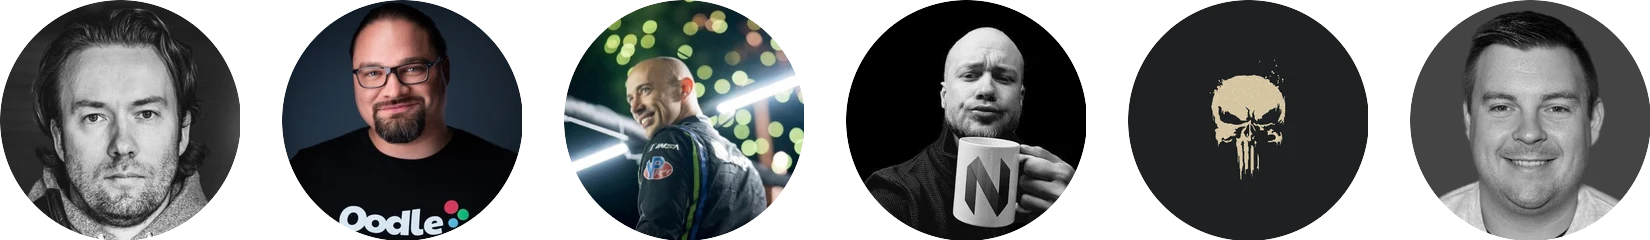
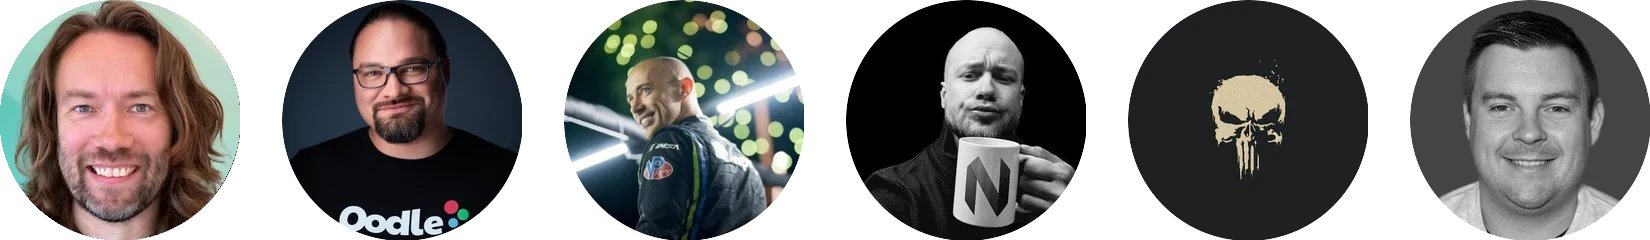
Use the current dhh.dk headshot and byline
Swaps in headshot-2026-square.jpg for all three places the old photo
appeared: the Core and Security cards on /teams, the Founding Patrons grid,
and the six-avatar strip on the Core Team post, where it was baked into the
image and had to be composited back over the first circle.

Bylines point at dhh.dk instead of x.com/dhh across all ten posts. The
plugin competition's link to a specific tweet stays on X — that one is a
reference, not an author link.

Changed region(s): [[0.0, 0.0, 0.1545, 1.0]]

diff --git a/news/index.html b/news/index.html
@@ -67,7 +67,7 @@
         <article class="news-card">
           <header>
             <p class="news-meta">
-              <span class="news-byline"><a href="https://x.com/dhh" rel="author noopener noreferrer" target="_blank">DHH</a></span> on <time class="news-date" datetime="2026-08-28">August 28, 2026</time>
+              <span class="news-byline"><a href="https://dhh.dk" rel="author noopener noreferrer" target="_blank">DHH</a></span> on <time class="news-date" datetime="2026-08-28">August 28, 2026</time>
             </p>
             <h2 class="news-card__title">Introducing Omarchy AIR</h2>
           </header>
@@ -83,7 +83,7 @@
         <article class="news-card">
           <header>
             <p class="news-meta">
-              <span class="news-byline"><a href="https://x.com/dhh" rel="author noopener noreferrer" target="_blank">DHH</a></span> on <time class="news-date" datetime="2026-08-27">August 27, 2026</time>
+              <span class="news-byline"><a href="https://dhh.dk" rel="author noopener noreferrer" target="_blank">DHH</a></span> on <time class="news-date" datetime="2026-08-27">August 27, 2026</time>
             </p>
             <h2 class="news-card__title">Introducing Omarchy Rangers</h2>
           </header>
@@ -99,7 +99,7 @@
         <article class="news-card">
           <header>
             <p class="news-meta">
-              <span class="news-byline"><a href="https://x.com/dhh" rel="author noopener noreferrer" target="_blank">DHH</a></span> on <time class="news-date" datetime="2026-08-25">August 25, 2026</time>
+              <span class="news-byline"><a href="https://dhh.dk" rel="author noopener noreferrer" target="_blank">DHH</a></span> on <time class="news-date" datetime="2026-08-25">August 25, 2026</time>
             </p>
             <h2 class="news-card__title">Omacom Foundation to be premier mise sponsor</h2>
           </header>
@@ -115,7 +115,7 @@
         <article class="news-card">
           <header>
             <p class="news-meta">
-              <span class="news-byline"><a href="https://x.com/dhh" rel="author noopener noreferrer" target="_blank">DHH</a></span> on <time class="news-date" datetime="2026-08-24">August 24, 2026</time>
+              <span class="news-byline"><a href="https://dhh.dk" rel="author noopener noreferrer" target="_blank">DHH</a></span> on <time class="news-date" datetime="2026-08-24">August 24, 2026</time>
             </p>
             <h2 class="news-card__title">Omarchy meetups around the world</h2>
           </header>
@@ -131,7 +131,7 @@
         <article class="news-card">
           <header>
             <p class="news-meta">
-              <span class="news-byline"><a href="https://x.com/dhh" rel="author noopener noreferrer" target="_blank">DHH</a></span> on <time class="news-date" datetime="2026-08-24">August 24, 2026</time>
+              <span class="news-byline"><a href="https://dhh.dk" rel="author noopener noreferrer" target="_blank">DHH</a></span> on <time class="news-date" datetime="2026-08-24">August 24, 2026</time>
             </p>
             <h2 class="news-card__title">Omacom Foundation to be premier Quickshell sponsor</h2>
           </header>
@@ -147,7 +147,7 @@
         <article class="news-card">
           <header>
             <p class="news-meta">
-              <span class="news-byline"><a href="https://x.com/dhh" rel="author noopener noreferrer" target="_blank">DHH</a></span> on <time class="news-date" datetime="2026-08-24">August 24, 2026</time>
+              <span class="news-byline"><a href="https://dhh.dk" rel="author noopener noreferrer" target="_blank">DHH</a></span> on <time class="news-date" datetime="2026-08-24">August 24, 2026</time>
             </p>
             <h2 class="news-card__title">Omacom Foundation funding hits $10m</h2>
           </header>
@@ -163,7 +163,7 @@
         <article class="news-card">
           <header>
             <p class="news-meta">
-              <span class="news-byline"><a href="https://x.com/dhh" rel="author noopener noreferrer" target="_blank">DHH</a></span> on <time class="news-date" datetime="2026-08-21">August 21, 2026</time>
+              <span class="news-byline"><a href="https://dhh.dk" rel="author noopener noreferrer" target="_blank">DHH</a></span> on <time class="news-date" datetime="2026-08-21">August 21, 2026</time>
             </p>
             <h2 class="news-card__title">Omacom Foundation to be exclusive Hyprland sponsor</h2>
           </header>
@@ -179,7 +179,7 @@
         <article class="news-card">
           <header>
             <p class="news-meta">
-              <span class="news-byline"><a href="https://x.com/dhh" rel="author noopener noreferrer" target="_blank">DHH</a></span> on <time class="news-date" datetime="2026-08-21">August 21, 2026</time>
+              <span class="news-byline"><a href="https://dhh.dk" rel="author noopener noreferrer" target="_blank">DHH</a></span> on <time class="news-date" datetime="2026-08-21">August 21, 2026</time>
             </p>
             <h2 class="news-card__title">Omacom Foundation launches with $8 million</h2>
           </header>
@@ -195,7 +195,7 @@
         <article class="news-card">
           <header>
             <p class="news-meta">
-              <span class="news-byline"><a href="https://x.com/dhh" rel="author noopener noreferrer" target="_blank">DHH</a></span> on <time class="news-date" datetime="2026-08-19">August 19, 2026</time>
+              <span class="news-byline"><a href="https://dhh.dk" rel="author noopener noreferrer" target="_blank">DHH</a></span> on <time class="news-date" datetime="2026-08-19">August 19, 2026</time>
             </p>
             <h2 class="news-card__title">The Omarchy Core Team</h2>
           </header>
@@ -211,7 +211,7 @@
         <article class="news-card">
           <header>
             <p class="news-meta">
-              <span class="news-byline"><a href="https://x.com/dhh" rel="author noopener noreferrer" target="_blank">DHH</a></span> on <time class="news-date" datetime="2026-08-19">August 19, 2026</time>
+              <span class="news-byline"><a href="https://dhh.dk" rel="author noopener noreferrer" target="_blank">DHH</a></span> on <time class="news-date" datetime="2026-08-19">August 19, 2026</time>
             </p>
             <h2 class="news-card__title">The first plugin competition</h2>
           </header>

diff --git a/news/2026/08/omacom-foundation-to-be-premier-quickshell-sponsor/index.html b/news/2026/08/omacom-foundation-to-be-premier-quickshell-sponsor/index.html
@@ -30,7 +30,7 @@
     <meta name="twitter:image" content="https://omarchy.org/assets/images/social.png">
     <meta name="twitter:image:alt" content="Omarchy logo">
 
-    <script type="application/ld+json">{"@context":"https://schema.org","@type":"BlogPosting","headline":"Omacom Foundation to be premier Quickshell sponsor","description":"More money in , more money out! Our second major sponsorship from the Omacom Foundation is going to outfoxxed for his superb work on Quickshell . It’s only been part of the public release for a week, but it’s already crystal clear that it…","datePublished":"2026-08-24","author":{"@type":"Person","name":"DHH","url":"https://x.com/dhh"},"publisher":{"@type":"Organization","name":"Omarchy","logo":{"@type":"ImageObject","url":"https://omarchy.org/assets/images/favicon.png"}},"image":"https://omarchy.org/assets/images/favicon.png","mainEntityOfPage":"https://omarchy.org/news/2026/08/omacom-foundation-to-be-premier-quickshell-sponsor"}</script>
+    <script type="application/ld+json">{"@context":"https://schema.org","@type":"BlogPosting","headline":"Omacom Foundation to be premier Quickshell sponsor","description":"More money in , more money out! Our second major sponsorship from the Omacom Foundation is going to outfoxxed for his superb work on Quickshell . It’s only been part of the public release for a week, but it’s already crystal clear that it…","datePublished":"2026-08-24","author":{"@type":"Person","name":"DHH","url":"https://dhh.dk"},"publisher":{"@type":"Organization","name":"Omarchy","logo":{"@type":"ImageObject","url":"https://omarchy.org/assets/images/favicon.png"}},"image":"https://omarchy.org/assets/images/favicon.png","mainEntityOfPage":"https://omarchy.org/news/2026/08/omacom-foundation-to-be-premier-quickshell-sponsor"}</script>
 
     <link rel="stylesheet" href="/assets/css/reset.css">
     <link rel="stylesheet" href="/assets/css/root.css">
@@ -65,7 +65,7 @@
       <article class="news-post">
         <header class="news-post__header">
           <p class="news-meta">
-            <span class="news-byline">By <a href="https://x.com/dhh" rel="author noopener noreferrer" target="_blank">DHH</a></span> on <time class="news-date" datetime="2026-08-24">August 24, 2026</time>
+            <span class="news-byline">By <a href="https://dhh.dk" rel="author noopener noreferrer" target="_blank">DHH</a></span> on <time class="news-date" datetime="2026-08-24">August 24, 2026</time>
           </p>
           <h1 class="news-post__title">Omacom Foundation to be premier Quickshell sponsor</h1>
         </header>

diff --git a/news/2026/08/omacom-foundation-to-be-exclusive-hyprland-sponsor/index.html b/news/2026/08/omacom-foundation-to-be-exclusive-hyprland-sponsor/index.html
@@ -30,7 +30,7 @@
     <meta name="twitter:image" content="https://omarchy.org/assets/images/social.png">
     <meta name="twitter:image:alt" content="Omarchy logo">
 
-    <script type="application/ld+json">{"@context":"https://schema.org","@type":"BlogPosting","headline":"Omacom Foundation to be exclusive Hyprland sponsor","description":"What better way to start spending some of the treasure we just raised for the Omacom Foundation than on the most cracked Linux kid in Poland: Vaxry ! As the creator of Hyprland , he’s responsible for one of the three core technologies in…","datePublished":"2026-08-21","author":{"@type":"Person","name":"DHH","url":"https://x.com/dhh"},"publisher":{"@type":"Organization","name":"Omarchy","logo":{"@type":"ImageObject","url":"https://omarchy.org/assets/images/favicon.png"}},"image":"https://omarchy.org/assets/images/favicon.png","mainEntityOfPage":"https://omarchy.org/news/2026/08/omacom-foundation-to-be-exclusive-hyprland-sponsor"}</script>
+    <script type="application/ld+json">{"@context":"https://schema.org","@type":"BlogPosting","headline":"Omacom Foundation to be exclusive Hyprland sponsor","description":"What better way to start spending some of the treasure we just raised for the Omacom Foundation than on the most cracked Linux kid in Poland: Vaxry ! As the creator of Hyprland , he’s responsible for one of the three core technologies in…","datePublished":"2026-08-21","author":{"@type":"Person","name":"DHH","url":"https://dhh.dk"},"publisher":{"@type":"Organization","name":"Omarchy","logo":{"@type":"ImageObject","url":"https://omarchy.org/assets/images/favicon.png"}},"image":"https://omarchy.org/assets/images/favicon.png","mainEntityOfPage":"https://omarchy.org/news/2026/08/omacom-foundation-to-be-exclusive-hyprland-sponsor"}</script>
 
     <link rel="stylesheet" href="/assets/css/reset.css">
     <link rel="stylesheet" href="/assets/css/root.css">
@@ -65,7 +65,7 @@
       <article class="news-post">
         <header class="news-post__header">
           <p class="news-meta">
-            <span class="news-byline">By <a href="https://x.com/dhh" rel="author noopener noreferrer" target="_blank">DHH</a></span> on <time class="news-date" datetime="2026-08-21">August 21, 2026</time>
+            <span class="news-byline">By <a href="https://dhh.dk" rel="author noopener noreferrer" target="_blank">DHH</a></span> on <time class="news-date" datetime="2026-08-21">August 21, 2026</time>
           </p>
           <h1 class="news-post__title">Omacom Foundation to be exclusive Hyprland sponsor</h1>
         </header>

diff --git a/news/2026/08/omacom-foundation-to-be-premier-mise-sponsor/index.html b/news/2026/08/omacom-foundation-to-be-premier-mise-sponsor/index.html
@@ -30,7 +30,7 @@
     <meta name="twitter:image" content="https://omarchy.org/assets/images/social.png">
     <meta name="twitter:image:alt" content="Omarchy logo">
 
-    <script type="application/ld+json">{"@context":"https://schema.org","@type":"BlogPosting","headline":"Omacom Foundation to be premier mise sponsor","description":"Third sponsorship out the door! The Omacom Foundation is becoming a premier sponsor of mise , and thereby of jdx , who has spent years building the tool that quietly makes managing different versions of Ruby, Node, Go a joy to manage, and…","datePublished":"2026-08-25","author":{"@type":"Person","name":"DHH","url":"https://x.com/dhh"},"publisher":{"@type":"Organization","name":"Omarchy","logo":{"@type":"ImageObject","url":"https://omarchy.org/assets/images/favicon.png"}},"image":"https://omarchy.org/assets/images/favicon.png","mainEntityOfPage":"https://omarchy.org/news/2026/08/omacom-foundation-to-be-premier-mise-sponsor"}</script>
+    <script type="application/ld+json">{"@context":"https://schema.org","@type":"BlogPosting","headline":"Omacom Foundation to be premier mise sponsor","description":"Third sponsorship out the door! The Omacom Foundation is becoming a premier sponsor of mise , and thereby of jdx , who has spent years building the tool that quietly makes managing different versions of Ruby, Node, Go a joy to manage, and…","datePublished":"2026-08-25","author":{"@type":"Person","name":"DHH","url":"https://dhh.dk"},"publisher":{"@type":"Organization","name":"Omarchy","logo":{"@type":"ImageObject","url":"https://omarchy.org/assets/images/favicon.png"}},"image":"https://omarchy.org/assets/images/favicon.png","mainEntityOfPage":"https://omarchy.org/news/2026/08/omacom-foundation-to-be-premier-mise-sponsor"}</script>
 
     <link rel="stylesheet" href="/assets/css/reset.css">
     <link rel="stylesheet" href="/assets/css/root.css">
@@ -65,7 +65,7 @@
       <article class="news-post">
         <header class="news-post__header">
           <p class="news-meta">
-            <span class="news-byline">By <a href="https://x.com/dhh" rel="author noopener noreferrer" target="_blank">DHH</a></span> on <time class="news-date" datetime="2026-08-25">August 25, 2026</time>
+            <span class="news-byline">By <a href="https://dhh.dk" rel="author noopener noreferrer" target="_blank">DHH</a></span> on <time class="news-date" datetime="2026-08-25">August 25, 2026</time>
           </p>
           <h1 class="news-post__title">Omacom Foundation to be premier mise sponsor</h1>
         </header>

diff --git a/news/2026/08/omacom-foundation-launches-with-8-million/index.html b/news/2026/08/omacom-foundation-launches-with-8-million/index.html
@@ -30,7 +30,7 @@
     <meta name="twitter:image" content="https://omarchy.org/assets/images/social.png">
     <meta name="twitter:image:alt" content="Omarchy logo">
 
-    <script type="application/ld+json">{"@context":"https://schema.org","@type":"BlogPosting","headline":"Omacom Foundation launches with $8 million","description":"It’s time to dream big. Omarchy Quattro has given people a chance to experience what the malleable computer of the future looks like, and they like it (a lot!). It now feels like a moral obligation to make this future more broadly…","datePublished":"2026-08-21","author":{"@type":"Person","name":"DHH","url":"https://x.com/dhh"},"publisher":{"@type":"Organization","name":"Omarchy","logo":{"@type":"ImageObject","url":"https://omarchy.org/assets/images/favicon.png"}},"image":"https://omarchy.org/assets/images/favicon.png","mainEntityOfPage":"https://omarchy.org/news/2026/08/omacom-foundation-launches-with-8-million"}</script>
+    <script type="application/ld+json">{"@context":"https://schema.org","@type":"BlogPosting","headline":"Omacom Foundation launches with $8 million","description":"It’s time to dream big. Omarchy Quattro has given people a chance to experience what the malleable computer of the future looks like, and they like it (a lot!). It now feels like a moral obligation to make this future more broadly…","datePublished":"2026-08-21","author":{"@type":"Person","name":"DHH","url":"https://dhh.dk"},"publisher":{"@type":"Organization","name":"Omarchy","logo":{"@type":"ImageObject","url":"https://omarchy.org/assets/images/favicon.png"}},"image":"https://omarchy.org/assets/images/favicon.png","mainEntityOfPage":"https://omarchy.org/news/2026/08/omacom-foundation-launches-with-8-million"}</script>
 
     <link rel="stylesheet" href="/assets/css/reset.css">
     <link rel="stylesheet" href="/assets/css/root.css">
@@ -65,7 +65,7 @@
       <article class="news-post">
         <header class="news-post__header">
           <p class="news-meta">
-            <span class="news-byline">By <a href="https://x.com/dhh" rel="author noopener noreferrer" target="_blank">DHH</a></span> on <time class="news-date" datetime="2026-08-21">August 21, 2026</time>
+            <span class="news-byline">By <a href="https://dhh.dk" rel="author noopener noreferrer" target="_blank">DHH</a></span> on <time class="news-date" datetime="2026-08-21">August 21, 2026</time>
           </p>
           <h1 class="news-post__title">Omacom Foundation launches with $8 million</h1>
         </header>

diff --git a/news/2026/08/the-first-plugin-competition/index.html b/news/2026/08/the-first-plugin-competition/index.html
@@ -30,7 +30,7 @@
     <meta name="twitter:image" content="https://omarchy.org/assets/images/social.png">
     <meta name="twitter:image:alt" content="Omarchy logo">
 
-    <script type="application/ld+json">{"@context":"https://schema.org","@type":"BlogPosting","headline":"The first plugin competition","description":"The Omarchy Plugin Marketplace is already home to over 500 plugins and growing very fast. We have a million ideas for how we can improve this setup, including with automated agent-powered security reviews, but let’s not have perfect be…","datePublished":"2026-08-19","author":{"@type":"Person","name":"DHH","url":"https://x.com/dhh"},"publisher":{"@type":"Organization","name":"Omarchy","logo":{"@type":"ImageObject","url":"https://omarchy.org/assets/images/favicon.png"}},"image":"https://omarchy.org/assets/images/favicon.png","mainEntityOfPage":"https://omarchy.org/news/2026/08/the-first-plugin-competition"}</script>
+    <script type="application/ld+json">{"@context":"https://schema.org","@type":"BlogPosting","headline":"The first plugin competition","description":"The Omarchy Plugin Marketplace is already home to over 500 plugins and growing very fast. We have a million ideas for how we can improve this setup, including with automated agent-powered security reviews, but let’s not have perfect be…","datePublished":"2026-08-19","author":{"@type":"Person","name":"DHH","url":"https://dhh.dk"},"publisher":{"@type":"Organization","name":"Omarchy","logo":{"@type":"ImageObject","url":"https://omarchy.org/assets/images/favicon.png"}},"image":"https://omarchy.org/assets/images/favicon.png","mainEntityOfPage":"https://omarchy.org/news/2026/08/the-first-plugin-competition"}</script>
 
     <link rel="stylesheet" href="/assets/css/reset.css">
     <link rel="stylesheet" href="/assets/css/root.css">
@@ -65,7 +65,7 @@
       <article class="news-post">
         <header class="news-post__header">
           <p class="news-meta">
-            <span class="news-byline">By <a href="https://x.com/dhh" rel="author noopener noreferrer" target="_blank">DHH</a></span> on <time class="news-date" datetime="2026-08-19">August 19, 2026</time>
+            <span class="news-byline">By <a href="https://dhh.dk" rel="author noopener noreferrer" target="_blank">DHH</a></span> on <time class="news-date" datetime="2026-08-19">August 19, 2026</time>
           </p>
           <h1 class="news-post__title">The first plugin competition</h1>
         </header>

diff --git a/news/2026/09/the-omarchy-core-team/index.html b/news/2026/09/the-omarchy-core-team/index.html
@@ -30,7 +30,7 @@
     <meta name="twitter:image" content="https://omarchy.org/assets/images/social.png">
     <meta name="twitter:image:alt" content="Omarchy logo">
 
-    <script type="application/ld+json">{"@context":"https://schema.org","@type":"BlogPosting","headline":"The Omarchy Core Team","description":"Omarchy’s explosive growth demands structured teams in response, and we’re going to get started by incorporating The Omarchy Core Team. This group will share the responsibility of driving the direction of our distro, ensuring we continue…","datePublished":"2026-08-19","author":{"@type":"Person","name":"DHH","url":"https://x.com/dhh"},"publisher":{"@type":"Organization","name":"Omarchy","logo":{"@type":"ImageObject","url":"https://omarchy.org/assets/images/favicon.png"}},"image":"https://omarchy.org/assets/images/favicon.png","mainEntityOfPage":"https://omarchy.org/news/2026/09/the-omarchy-core-team"}</script>
+    <script type="application/ld+json">{"@context":"https://schema.org","@type":"BlogPosting","headline":"The Omarchy Core Team","description":"Omarchy’s explosive growth demands structured teams in response, and we’re going to get started by incorporating The Omarchy Core Team. This group will share the responsibility of driving the direction of our distro, ensuring we continue…","datePublished":"2026-08-19","author":{"@type":"Person","name":"DHH","url":"https://dhh.dk"},"publisher":{"@type":"Organization","name":"Omarchy","logo":{"@type":"ImageObject","url":"https://omarchy.org/assets/images/favicon.png"}},"image":"https://omarchy.org/assets/images/favicon.png","mainEntityOfPage":"https://omarchy.org/news/2026/09/the-omarchy-core-team"}</script>
 
     <link rel="stylesheet" href="/assets/css/reset.css">
     <link rel="stylesheet" href="/assets/css/root.css">
@@ -65,7 +65,7 @@
       <article class="news-post">
         <header class="news-post__header">
           <p class="news-meta">
-            <span class="news-byline">By <a href="https://x.com/dhh" rel="author noopener noreferrer" target="_blank">DHH</a></span> on <time class="news-date" datetime="2026-08-19">August 19, 2026</time>
+            <span class="news-byline">By <a href="https://dhh.dk" rel="author noopener noreferrer" target="_blank">DHH</a></span> on <time class="news-date" datetime="2026-08-19">August 19, 2026</time>
           </p>
           <h1 class="news-post__title">The Omarchy Core Team</h1>
         </header>

diff --git a/news/2026/08/omacom-foundation-funding-hits-10m/index.html b/news/2026/08/omacom-foundation-funding-hits-10m/index.html
@@ -30,7 +30,7 @@
     <meta name="twitter:image" content="https://omarchy.org/assets/images/social.png">
     <meta name="twitter:image:alt" content="Omarchy logo">
 
-    <script type="application/ld+json">{"@context":"https://schema.org","@type":"BlogPosting","headline":"Omacom Foundation funding hits $10m","description":"Drew Houston and Peter Steinberger join the Omacom Foundation as Founding Patrons, taking total funding to $10 million.","datePublished":"2026-08-24","author":{"@type":"Person","name":"DHH","url":"https://x.com/dhh"},"publisher":{"@type":"Organization","name":"Omarchy","logo":{"@type":"ImageObject","url":"https://omarchy.org/assets/images/favicon.png"}},"image":"https://omarchy.org/assets/images/favicon.png","mainEntityOfPage":"https://omarchy.org/news/2026/08/omacom-foundation-funding-hits-10m"}</script>
+    <script type="application/ld+json">{"@context":"https://schema.org","@type":"BlogPosting","headline":"Omacom Foundation funding hits $10m","description":"Drew Houston and Peter Steinberger join the Omacom Foundation as Founding Patrons, taking total funding to $10 million.","datePublished":"2026-08-24","author":{"@type":"Person","name":"DHH","url":"https://dhh.dk"},"publisher":{"@type":"Organization","name":"Omarchy","logo":{"@type":"ImageObject","url":"https://omarchy.org/assets/images/favicon.png"}},"image":"https://omarchy.org/assets/images/favicon.png","mainEntityOfPage":"https://omarchy.org/news/2026/08/omacom-foundation-funding-hits-10m"}</script>
 
     <link rel="stylesheet" href="/assets/css/reset.css">
     <link rel="stylesheet" href="/assets/css/root.css">
@@ -65,7 +65,7 @@
       <article class="news-post">
         <header class="news-post__header">
           <p class="news-meta">
-            <span class="news-byline">By <a href="https://x.com/dhh" rel="author noopener noreferrer" target="_blank">DHH</a></span> on <time class="news-date" datetime="2026-08-24">August 24, 2026</time>
+            <span class="news-byline">By <a href="https://dhh.dk" rel="author noopener noreferrer" target="_blank">DHH</a></span> on <time class="news-date" datetime="2026-08-24">August 24, 2026</time>
           </p>
           <h1 class="news-post__title">Omacom Foundation funding hits $10m</h1>
         </header>

diff --git a/news/2026/08/introducing-omarchy-air/index.html b/news/2026/08/introducing-omarchy-air/index.html
@@ -30,7 +30,7 @@
     <meta name="twitter:image" content="https://omarchy.org/assets/images/social.png">
     <meta name="twitter:image:alt" content="Omarchy logo">
 
-    <script type="application/ld+json">{"@context":"https://schema.org","@type":"BlogPosting","headline":"Introducing Omarchy AIR","description":"A six-month, funded residency for the artists who make Omarchy beautiful. The first two are HANCORE and OldJobobo.","datePublished":"2026-08-28","author":{"@type":"Person","name":"DHH","url":"https://x.com/dhh"},"publisher":{"@type":"Organization","name":"Omarchy","logo":{"@type":"ImageObject","url":"https://omarchy.org/assets/images/favicon.png"}},"image":"https://omarchy.org/assets/images/favicon.png","mainEntityOfPage":"https://omarchy.org/news/2026/08/introducing-omarchy-air"}</script>
+    <script type="application/ld+json">{"@context":"https://schema.org","@type":"BlogPosting","headline":"Introducing Omarchy AIR","description":"A six-month, funded residency for the artists who make Omarchy beautiful. The first two are HANCORE and OldJobobo.","datePublished":"2026-08-28","author":{"@type":"Person","name":"DHH","url":"https://dhh.dk"},"publisher":{"@type":"Organization","name":"Omarchy","logo":{"@type":"ImageObject","url":"https://omarchy.org/assets/images/favicon.png"}},"image":"https://omarchy.org/assets/images/favicon.png","mainEntityOfPage":"https://omarchy.org/news/2026/08/introducing-omarchy-air"}</script>
 
     <link rel="stylesheet" href="/assets/css/reset.css">
     <link rel="stylesheet" href="/assets/css/root.css">
@@ -65,7 +65,7 @@
       <article class="news-post">
         <header class="news-post__header">
           <p class="news-meta">
-            <span class="news-byline">By <a href="https://x.com/dhh" rel="author noopener noreferrer" target="_blank">DHH</a></span> on <time class="news-date" datetime="2026-08-28">August 28, 2026</time>
+            <span class="news-byline">By <a href="https://dhh.dk" rel="author noopener noreferrer" target="_blank">DHH</a></span> on <time class="news-date" datetime="2026-08-28">August 28, 2026</time>
           </p>
           <h1 class="news-post__title">Introducing Omarchy AIR</h1>
         </header>

diff --git a/news/2026/08/omarchy-meetups-around-the-world/index.html b/news/2026/08/omarchy-meetups-around-the-world/index.html
@@ -30,7 +30,7 @@
     <meta name="twitter:image" content="https://omarchy.org/assets/images/social.png">
     <meta name="twitter:image:alt" content="Omarchy logo">
 
-    <script type="application/ld+json">{"@context":"https://schema.org","@type":"BlogPosting","headline":"Omarchy meetups around the world","description":"Find an Omarchy meetup near you or start one yourself and add it to the global calendar.","datePublished":"2026-08-24","author":{"@type":"Person","name":"DHH","url":"https://x.com/dhh"},"publisher":{"@type":"Organization","name":"Omarchy","logo":{"@type":"ImageObject","url":"https://omarchy.org/assets/images/favicon.png"}},"image":"https://omarchy.org/assets/images/favicon.png","mainEntityOfPage":"https://omarchy.org/news/2026/08/omarchy-meetups-around-the-world"}</script>
+    <script type="application/ld+json">{"@context":"https://schema.org","@type":"BlogPosting","headline":"Omarchy meetups around the world","description":"Find an Omarchy meetup near you or start one yourself and add it to the global calendar.","datePublished":"2026-08-24","author":{"@type":"Person","name":"DHH","url":"https://dhh.dk"},"publisher":{"@type":"Organization","name":"Omarchy","logo":{"@type":"ImageObject","url":"https://omarchy.org/assets/images/favicon.png"}},"image":"https://omarchy.org/assets/images/favicon.png","mainEntityOfPage":"https://omarchy.org/news/2026/08/omarchy-meetups-around-the-world"}</script>
 
     <link rel="stylesheet" href="/assets/css/reset.css">
     <link rel="stylesheet" href="/assets/css/root.css">
@@ -65,7 +65,7 @@
       <article class="news-post">
         <header class="news-post__header">
           <p class="news-meta">
-            <span class="news-byline">By <a href="https://x.com/dhh" rel="author noopener noreferrer" target="_blank">DHH</a></span> on <time class="news-date" datetime="2026-08-24">August 24, 2026</time>
+            <span class="news-byline">By <a href="https://dhh.dk" rel="author noopener noreferrer" target="_blank">DHH</a></span> on <time class="news-date" datetime="2026-08-24">August 24, 2026</time>
           </p>
           <h1 class="news-post__title">Omarchy meetups around the world</h1>
         </header>

diff --git a/news/2026/08/introducing-the-omarchy-rangers/index.html b/news/2026/08/introducing-the-omarchy-rangers/index.html
@@ -30,7 +30,7 @@
     <meta name="twitter:image" content="https://omarchy.org/assets/images/social.png">
     <meta name="twitter:image:alt" content="Omarchy logo">
 
-    <script type="application/ld+json">{"@context":"https://schema.org","@type":"BlogPosting","headline":"Introducing Omarchy Rangers","description":"The first Omarchy Rangers are here to help people find their way, and applications are open.","datePublished":"2026-08-27","author":{"@type":"Person","name":"DHH","url":"https://x.com/dhh"},"publisher":{"@type":"Organization","name":"Omarchy","logo":{"@type":"ImageObject","url":"https://omarchy.org/assets/images/favicon.png"}},"image":"https://omarchy.org/assets/images/favicon.png","mainEntityOfPage":"https://omarchy.org/news/2026/08/introducing-the-omarchy-rangers"}</script>
+    <script type="application/ld+json">{"@context":"https://schema.org","@type":"BlogPosting","headline":"Introducing Omarchy Rangers","description":"The first Omarchy Rangers are here to help people find their way, and applications are open.","datePublished":"2026-08-27","author":{"@type":"Person","name":"DHH","url":"https://dhh.dk"},"publisher":{"@type":"Organization","name":"Omarchy","logo":{"@type":"ImageObject","url":"https://omarchy.org/assets/images/favicon.png"}},"image":"https://omarchy.org/assets/images/favicon.png","mainEntityOfPage":"https://omarchy.org/news/2026/08/introducing-the-omarchy-rangers"}</script>
 
     <link rel="stylesheet" href="/assets/css/reset.css">
     <link rel="stylesheet" href="/assets/css/root.css">
@@ -65,7 +65,7 @@
       <article class="news-post">
         <header class="news-post__header">
           <p class="news-meta">
-            <span class="news-byline">By <a href="https://x.com/dhh" rel="author noopener noreferrer" target="_blank">DHH</a></span> on <time class="news-date" datetime="2026-08-27">August 27, 2026</time>
+            <span class="news-byline">By <a href="https://dhh.dk" rel="author noopener noreferrer" target="_blank">DHH</a></span> on <time class="news-date" datetime="2026-08-27">August 27, 2026</time>
           </p>
           <h1 class="news-post__title">Introducing Omarchy Rangers</h1>
         </header>

diff --git a/content/news/2026/08/omacom-foundation-to-be-premier-quickshell-sponsor.md b/content/news/2026/08/omacom-foundation-to-be-premier-quickshell-sponsor.md
@@ -2,7 +2,7 @@
 title: Omacom Foundation to be premier Quickshell sponsor
 date: 2026-08-24
 author: DHH
-author_url: https://x.com/dhh
+author_url: https://dhh.dk
 ---
 
 [More money in](/news/2026/08/omacom-foundation-funding-hits-10m), more money out! Our second major sponsorship from the Omacom Foundation is going to [outfoxxed](https://x.com/outfoxxedd) for his superb work on [Quickshell](https://quickshell.org/). It's only been part of the public release for a week, but it's already crystal clear that it was the missing, pivotal piece for us to truly achieve [The Malleable Computer](https://world.hey.com/dhh/the-malleable-computer-7c187a9b).
